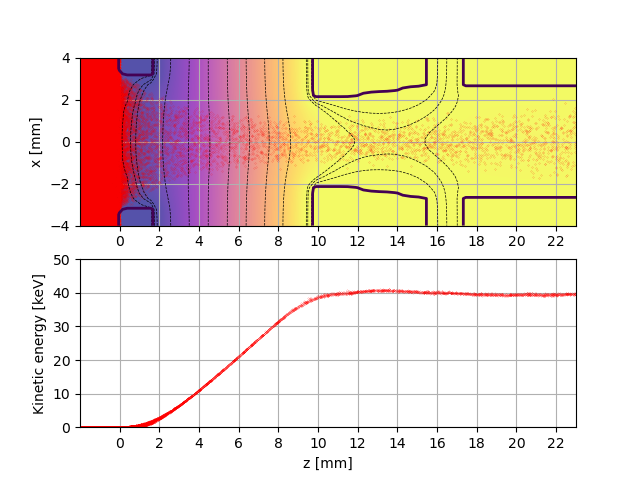
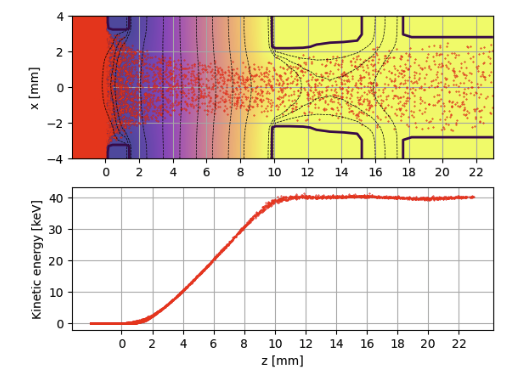
Clean-up

diff --git a/Examples/Physics_applications/ion_beam_extraction/README.rst b/Examples/Physics_applications/ion_beam_extraction/README.rst
@@ -24,12 +24,12 @@ Plasma source is set in two steps:
 A longitudinal electrostatic potential applied at the embedded-boundary surfaces defines the extraction voltage, accelerating ions from the plasma source to a target energy of :math:`\sim 40\,\mathrm{keV}`
 and forming single (or multiple) beamlet(s) with a defined transverse spacing.
 
-The figure below shows color map of the electrostatic potential (:math:`\phi`) overlaid with contours of the embedded boundary (eb_covered field) and ion (:math:`D^{+}`) macroparticles, and kinetic energy of the ion beam.
+The figure below shows color map of the electrostatic potential (:math:`\phi`) overlaid with contours of the embedded boundary (eb_covered field) and ion (:math:`D^{+}`) macroparticles, as well as kinetic energy of the ion beam.
 
 .. _ion_beam:
 
 .. figure:: ion_beam_and_energy_1_beamlet.png
-   :alt:  [fig:ion_beam] Color map of the electrostatic potential (:math:`\phi`) overlaid with contours of the embedded boundary (eb_covered field) and ion (:math:`D^{+}`) macroparticles, and kinetic energy of the ion beam.
+   :alt:  [fig:ion_beam] Color map of the electrostatic potential (:math:`\phi`) overlaid with contours of the embedded boundary (eb_covered field) and ion (:math:`D^{+}`) macroparticles, as well as kinetic energy of the ion beam.
    :align: center
 
 Run
@@ -37,7 +37,7 @@ Run
 
 This example can be run with the WarpX executable using an input file: ``warpx.3d inputs_test_3d_ion_beam_extraction``.
 For `MPI-parallel <https://www.mpi-forum.org>`__ runs, prefix these lines with ``mpiexec -n 4 ...`` or ``srun -n 4 ...``, depending on the system.
-Note: For the CI test, we intentionally specified very high values for `self_fields_absolute_tolerance` and `self_fields_required_precision`, and lowered spatial resolution to make the test run faster. For production runs, feel free to lower these values.
+Note: For the CI test, we intentionally specified very high values for `self_fields_absolute_tolerance` and `self_fields_required_precision`, and lowered spatial resolution to make the test run faster. For production runs, feel free to lower or increase these values accordingly.
 
 .. literalinclude:: inputs_test_3d_ion_beam_extraction
    :language: none